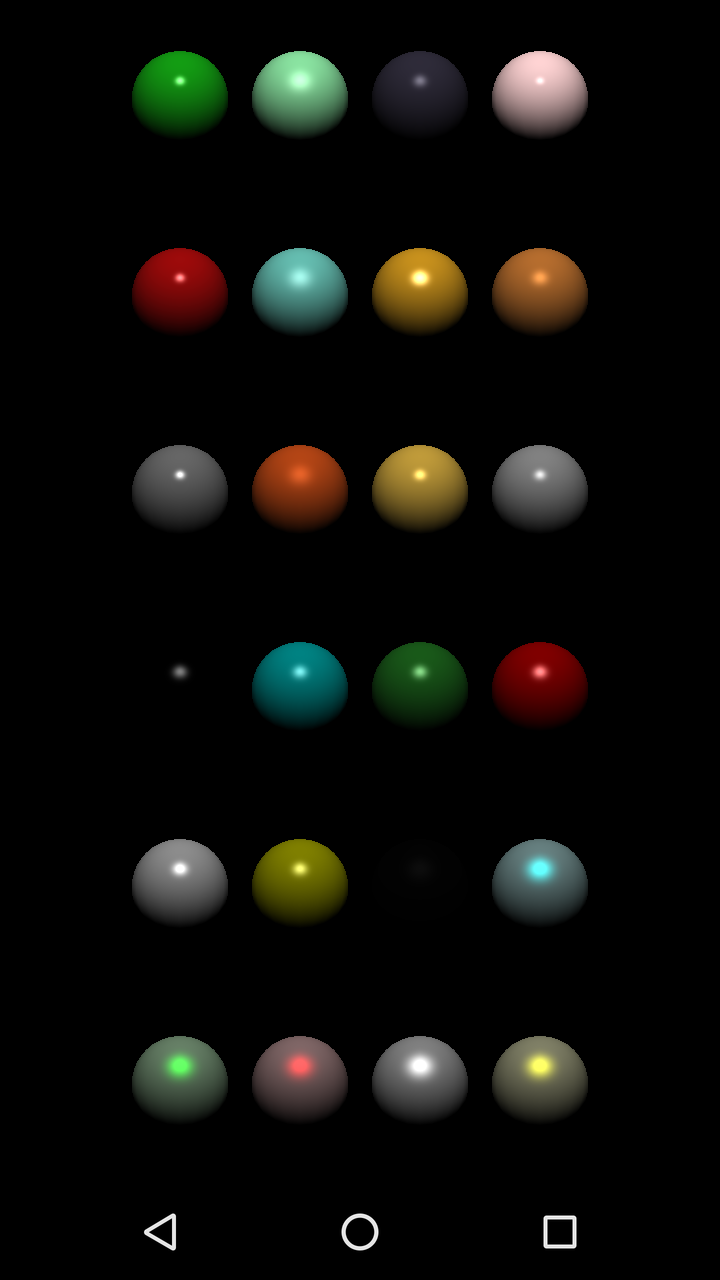
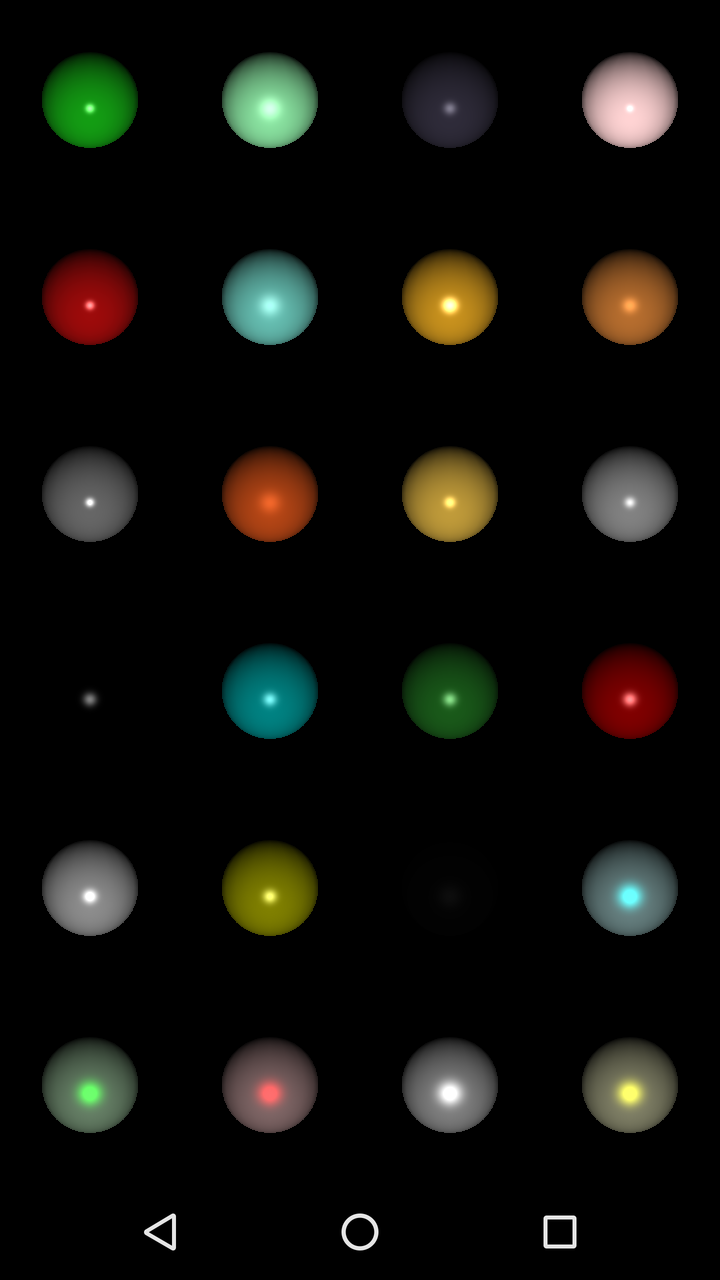
Android-24-spheres-updated ratio

diff --git a/OpenGL_On_Android/February25/06-PP-24-spheres/app/src/main/java/com/jeevan/light_24_spheres/GLESView.java b/OpenGL_On_Android/February25/06-PP-24-spheres/app/src/main/java/com/jeevan/light_24_spheres/GLESView.java
@@ -530,25 +530,16 @@ public class GLESView extends GLSurfaceView implements GLSurfaceView.Renderer, O
 
 	int windowCenterX = winWidth / 2;
 	int windowCenterY = winHeight / 2;
-	int viewPortSizeX = winWidth/6;
+	int viewPortSizeX = winWidth/4;
 	int viewPortSizeY = winHeight/6;
+	float newAspectRatio = (float)(viewPortSizeX)/(float)(viewPortSizeY);
 	float viewPortSizeAspectRatio = viewPortSizeX / viewPortSizeY;
-	float screenAspectRatio = winWidth/winHeight;
-	float scaleFactor;
-	/*
-	if( screenAspectRatio > viewPortSizeAspectRatio ){
-		scaleFactor = winHeight / viewPortSizeY;
-		viewPortSizeX = (int)(viewPortSizeX * scaleFactor);
-		viewPortSizeY = winHeight;
-	}
-	else{
-		scaleFactor = winWidth / viewPortSizeX;
-		viewPortSizeX = winHeight;
-		viewPortSizeY = (int) (viewPortSizeY * scaleFactor);
-	}
-	*/
+	
+	//update perspective according to new aspect ratio
+	Matrix.perspectiveM(perspectiveProjectionMatrix, 0, 45.0f,newAspectRatio,0.1f,100.0f);
+	
 	GLES30.glViewport(windowCenterX, windowCenterY, viewPortSizeX, viewPortSizeY);
-	//System.out.println("JCG: viewPortSizeX:"+viewPortSizeX+" viewPortSizeY:"+viewPortSizeY);
+	
 	int y_trans = viewPortSizeY;
 	int x_trans = viewPortSizeX;
 	int   distanceBetSpheres = 130;
@@ -563,8 +554,6 @@ public class GLESView extends GLSurfaceView implements GLSurfaceView.Renderer, O
 
 			int local_y_trans = 0;
 			if (((i - 1) % 4) == 0 && (i - 1 != 0)) {
-				//local_y_trans = distanceBetSpheres;
-				//y_trans -= y_trans;
 				currentViewPortY -= y_trans;
 				currentViewPortX = windowCenterX - x_trans*3; //reset X
 				GLES30.glViewport( currentViewPortX, currentViewPortY, viewPortSizeX, viewPortSizeY);
